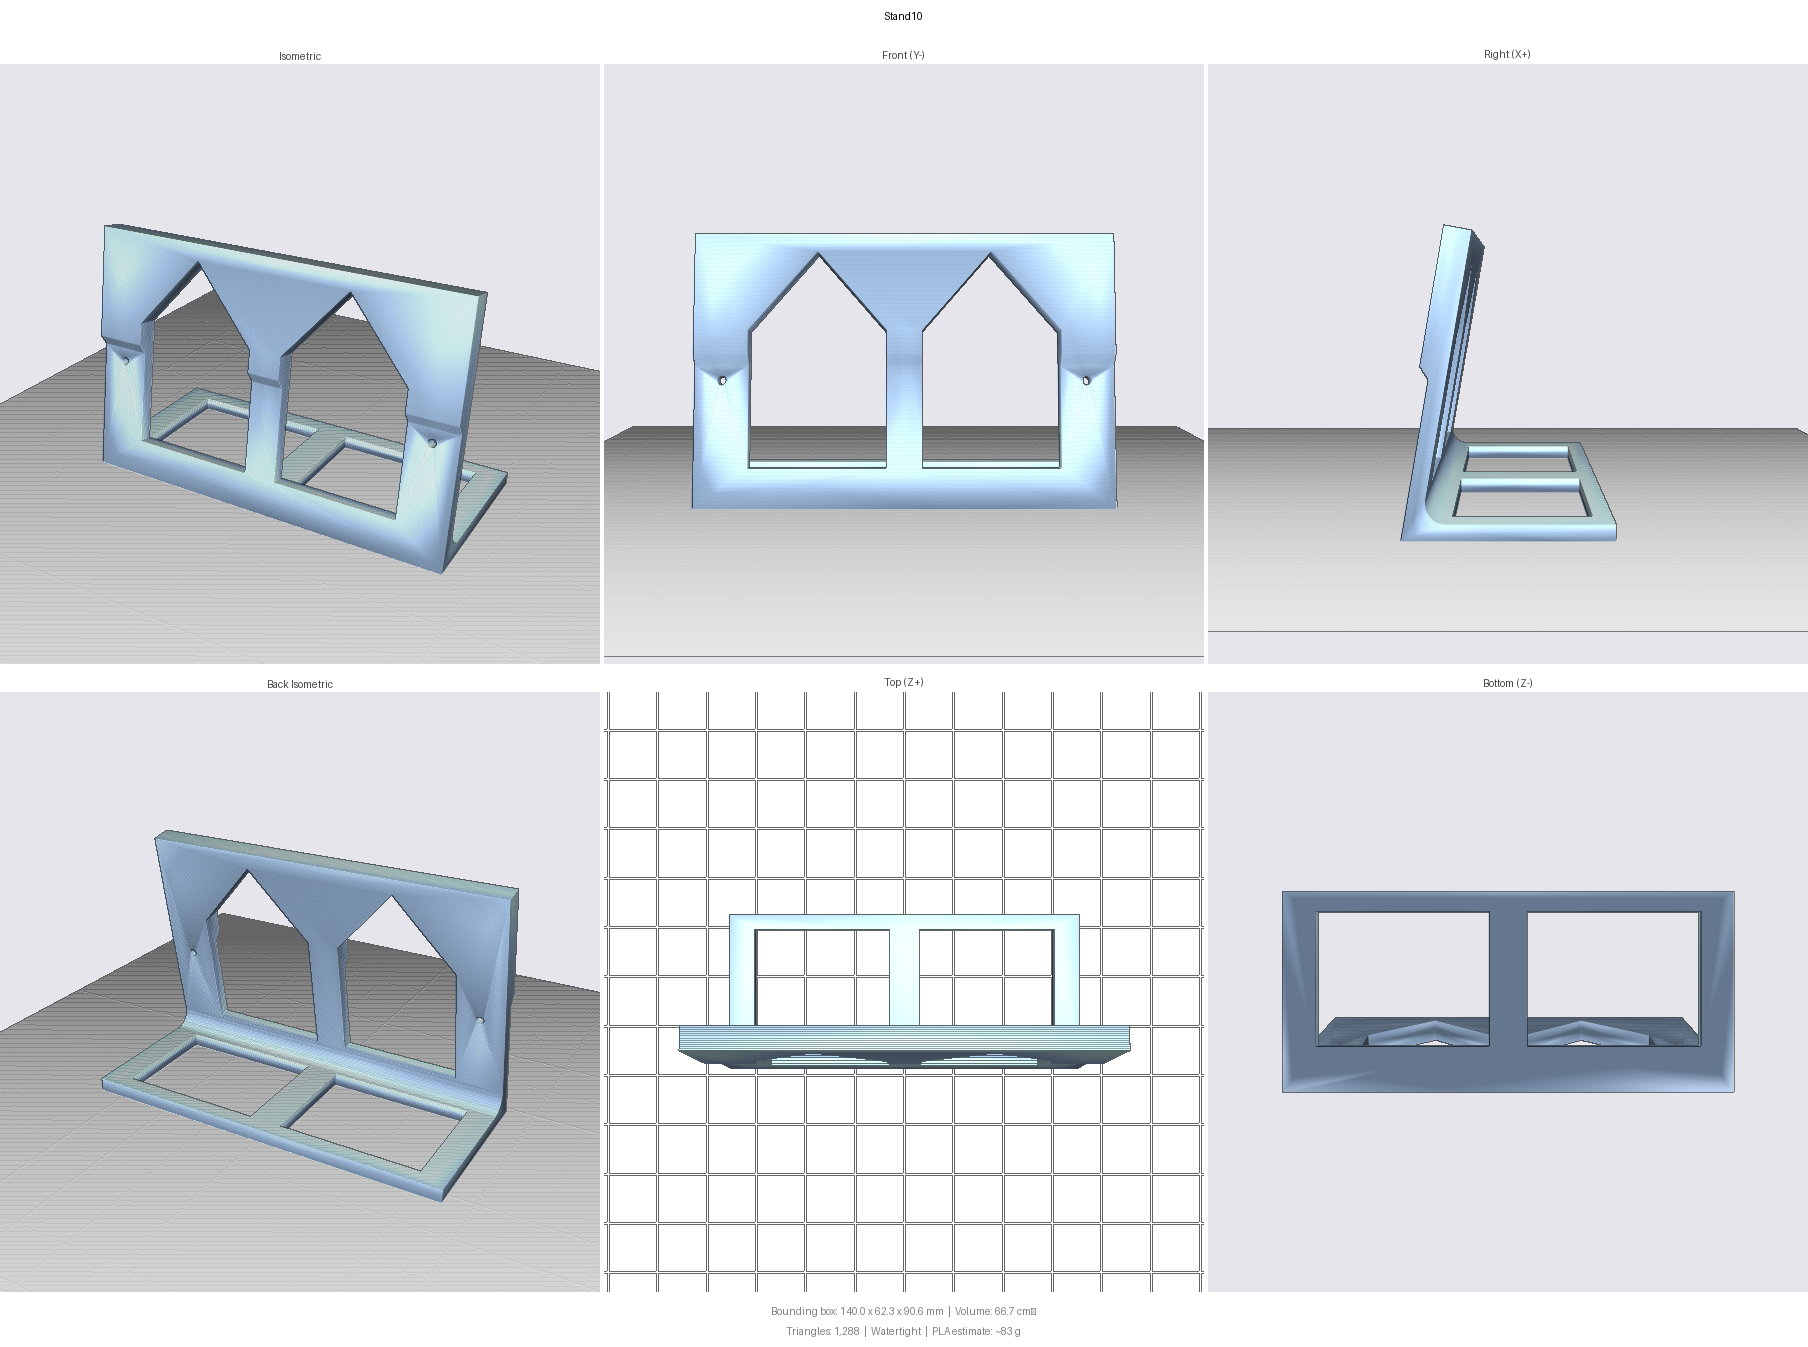
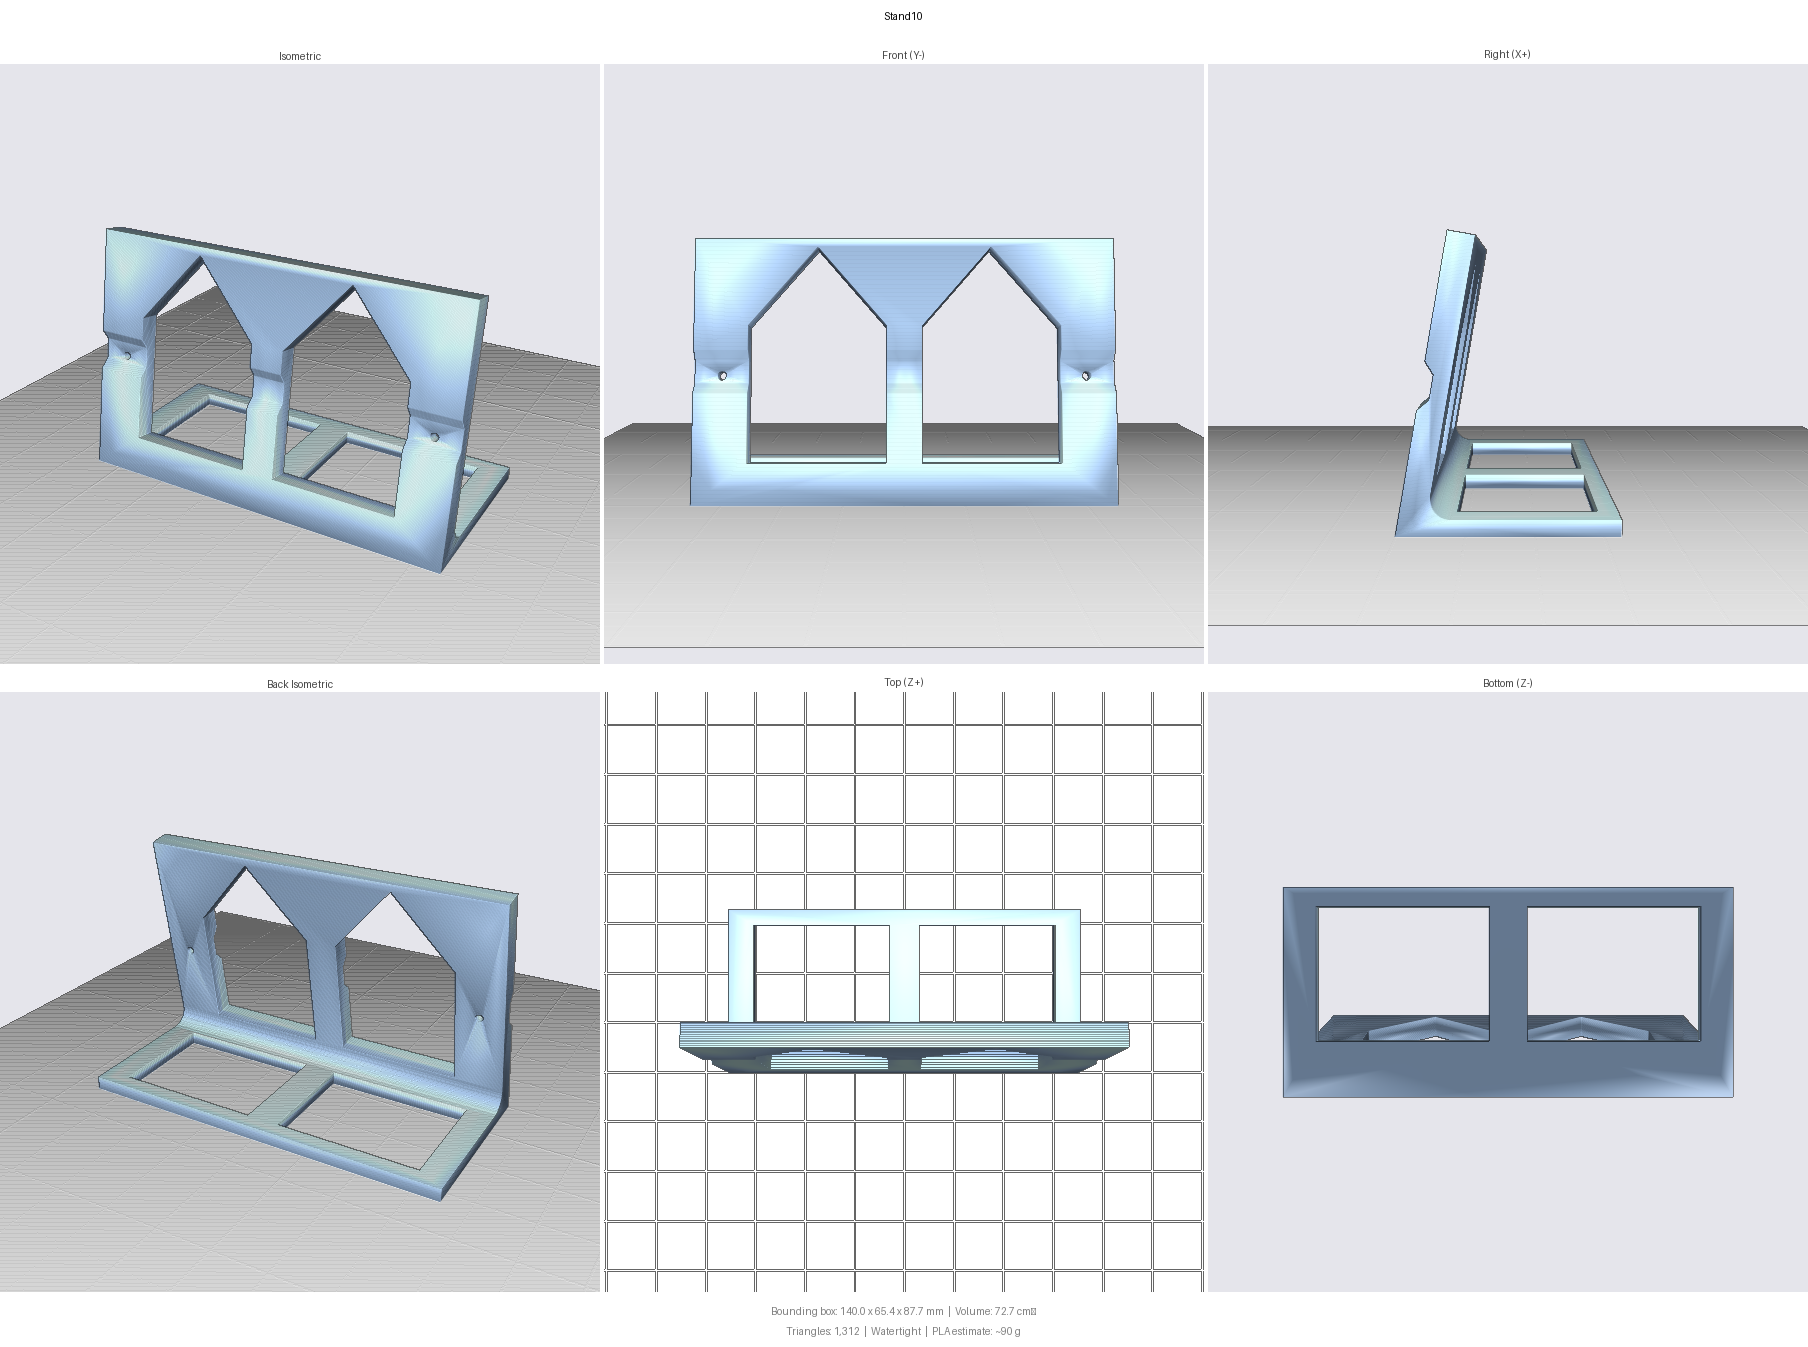
Bear on the back plate both sides of the bolt line, and clear the DSI loop
Two defects the first print showed, neither of which a render would have.

It rocked. Two screws in a line are an axis, and the front face bore only
ABOVE it, so the centre of mass held that face in contact while nothing at all
resisted rotation the other way. The face now touches the plate on both sides,
with the pad band recessed between them onto the boss plane, which makes a
couple that resists both senses. Both faces lie on the same plane, so they
cannot compete for the seat.

The one-sided version was a bad trade rather than an oversight: the worry was
that a face low down might print proud, become a pivot and lift the upper one
off. That risk is real and small. It was traded against a defect that turned
out to be certain, which is the wrong way round.

And the top pressed on the DSI ribbon where it loops under the board and hangs
below it. The upright stops at 87 rather than 90. That ceiling is not the
board's own edge at 100 and could not have been derived from it, because
nothing about a footprint says where a flexible cable sits.

The verification moved with the geometry rather than being relaxed to fit it:
the check that asserted the face was relieved below the bolt line now asserts
it bears there, and a separate one asserts the pad band between the two faces
does not touch. The step measurement is taken inside the pad band itself,
since a t=0 vertex either side of it would otherwise report no step at all.

72.7 cm3, up 9%. Needs a reprint.

diff --git a/stand10/stand10.py b/stand10/stand10.py
@@ -24,17 +24,22 @@ panel's bottom edge nor any printed lip appears below the bezel.
 
 THE FRONT FACE IS STEPPED, AND THE STEP IS THE WHOLE TRICK. The bosses stand
 3 mm proud of the back plate, so a part bolted flat against them is held 3 mm
-off the plate everywhere. A bearing face has to reach back across that 3 mm to
-touch the plate itself, and it has to do so ABOVE the bolt line: the centre of
-mass is above the bosses, so the panel's top rotates backward and the plate
-ABOVE the bolts presses into the stand while everything below it lifts away.
-The intuitive place for a pad - low down, near the desk - would never touch.
+off the plate everywhere, touching nothing but two small annular faces. The
+front face therefore reaches back across that 3 mm to touch the plate itself -
+and it does so on BOTH SIDES of the bolt line, so the pad band is a recess
+between two bearing faces with the bosses sitting in it.
 
-Below the bolt line the front face stays on the boss plane and is therefore
-held clear of the back plate. That is deliberate rather than lazy: it leaves
-the seat determined by the two pads and the upper bearing face alone, so a
-print tolerance low down cannot become a pivot and lift the bearing face out
-of contact.
+Both sides, because two screws in a line are an axis and the assembly will
+pivot on it. Bearing only above the bolts, which is what v0.3.x did, leaves
+the centre of mass holding that face in contact and nothing at all resisting
+rotation the other way; on the desk it rocked. Faces above and below make a
+couple that resists both senses, and because both lie on the same plane they
+cannot compete for the seat.
+
+The version that bore only above it was not an oversight but a bad trade: the
+worry was that a face low down might print proud, become a pivot, and lift the
+upper one off. That risk is real and small. It was traded against a defect
+that turned out to be certain.
 
 NOTHING HERE IS SIZED BY STRESS. The bearing face carries about 2.1 N, each
 bolt about 2.1 N of tension and 2.7 N of shear, and the upright's root sees
@@ -63,7 +68,7 @@ from pathlib import Path
 
 import cadquery as cq
 
-VERSION = "0.3.1"
+VERSION = "0.4.0"
 
 # ============================================================
 # PARAMETERS - all mm / degrees.
@@ -85,7 +90,7 @@ BOSS_DX = 121.8        # bottom bosses, centre to centre across
 # up, the pair 46 mm from the bottom leaves only 14 mm of clear plate before the
 # Pi begins, and no stand can reach a bearing face past that. Turned over, the
 # same board spans 100 to 187, the stand bolts to the pair now 41 mm up, and
-# there is 59 mm of clear plate - the part reaches 90 and clears the Pi by 10.
+# there is 59 mm of clear plate to work in.
 #
 # The orientation also puts the Pi's port end 60 mm from the TOP edge, which is
 # where both cables want to leave from and the reason this panel needs no
@@ -114,10 +119,18 @@ up_t = 5.0             # upright thickness, and so the pad the screw threads thr
 foot_t = 5.0           # foot thickness
 root_fillet = 6.0      # where the upright's back face meets the foot
 
-# --- Where the front face does what, in s
-pad_s1 = 46.0          # boss plane runs up to here: the boss needs flat around it
-bear_s0 = 49.5         # bearing face starts here, above the bolt line
-bear_s1 = 90.0         # and stops below the Pi, whose port face is at 100
+# --- Where the front face does what, in s. Reading up the plate: it touches,
+# --- steps back onto the boss plane, then touches again - so the pad band is a
+# --- recess between two bearing faces and the bosses sit in it.
+lo_bear_s1 = 35.0      # lower bearing face runs from the bottom up to here
+pad_s0 = 38.5          # boss plane starts, after a ramp back off the plate
+pad_s1 = 46.0          # and runs up to here: the boss needs flat around it
+bear_s0 = 49.5         # upper bearing face starts, above the bolt line
+# ...and stops here. Not set by the Pi, whose port face is at 100, but by the
+# DSI ribbon, which loops UNDER the board and hangs below it. At 90 the top of
+# the stand pressed on the loop; 87 clears it. Measured by fitting, because
+# nothing about the board's own footprint predicts where a flexible cable sits.
+bear_s1 = 87.0
 
 # --- Fasteners
 hole_d = 2.9           # M2.5 clearance, print-tolerant
@@ -173,12 +186,27 @@ def panel_prism(sketch):
 
 
 def profile():
-    """The L in the desk's YZ plane, walked front-bottom to back-bottom."""
+    """The L in the desk's YZ plane, walked front-bottom to back-bottom.
+
+    The front face touches the plate BOTH SIDES of the bolt line. Bearing only
+    above it - which is what v0.3.x did - leaves the assembly free to pivot on
+    the screw axis, and it rocked on the desk. The centre of mass holds the
+    upper face in contact, but nothing at all resisted rotation the other way.
+    Two faces straddling the bolts make a couple that resists both, and since
+    both sit on the same plane they cannot fight each other for the seat.
+
+    The reasoning that produced the one-sided version was that a face low down
+    might print proud and become a pivot, lifting the upper one off. That risk
+    is real but small, and it was traded against a defect that turned out to be
+    certain.
+    """
     return [
-        panel_to_desk(s_at_z(BOSS_PROUD, 0.0), BOSS_PROUD),   # front, on the desk
+        panel_to_desk(s_at_z(0.0, 0.0), 0.0),                 # front, on the desk
+        panel_to_desk(lo_bear_s1, 0.0),                       # top of the lower face
+        panel_to_desk(pad_s0, BOSS_PROUD),                    # back onto the boss plane
         panel_to_desk(pad_s1, BOSS_PROUD),                    # top of the boss plane
-        panel_to_desk(bear_s0, 0.0),                          # foot of the bearing face
-        panel_to_desk(bear_s1, 0.0),                          # top of the bearing face
+        panel_to_desk(bear_s0, 0.0),                          # foot of the upper face
+        panel_to_desk(bear_s1, 0.0),                          # top of the upper face
         panel_to_desk(bear_s1, _BACK_T),                      # over the top
         panel_to_desk(s_at_z(_BACK_T, foot_t), _BACK_T),      # down onto the foot
         (foot_depth, foot_t),

diff --git a/stand10/check_stand10.py b/stand10/check_stand10.py
@@ -6,9 +6,10 @@ that would otherwise only fail on the panel:
   - the screw axes are CLEAR. A fastener needs the ABSENCE of material, and
     asking whether the pad is present at the screw position answers a
     different question - one that returns True when the hole is missing.
-  - the step is real and lands the right way round: relieved on the boss plane
-    below the bolt line, touching the plate above it. Getting this backwards
-    would look identical in a render.
+  - the step is real and lands the right way round: the front face touches the
+    plate BOTH sides of the bolt line, with the pad band recessed between them
+    onto the boss plane. Getting this backwards looks identical in a render,
+    and bearing on only one side is what made v0.3.x rock on the desk.
   - nothing reaches into the panel, and nothing reaches up into the Pi.
 """
 
@@ -92,27 +93,42 @@ check("material beside each hole", inside_flank.all(),
 # --- The step. Below the bolt line the front face sits on the boss plane, so
 # --- a point just off the plate must be OUTSIDE the part; above it the bearing
 # --- face touches the plate, so the same point must be INSIDE.
-grid_x = np.linspace(-S.col_in + 2, S.col_in - 2, 9)
+bear_xs = [-S.BOSS_DX / 2.0, 0.0, S.BOSS_DX / 2.0]
 
+# The front face touches BOTH SIDES of the bolt line - that is what stops the
+# assembly pivoting on the screw axis, which is a defect the panel showed and
+# no render would have. Sampled on the columns and the centre rib, where the
+# windows leave material.
+lo_probe = to_desk(*np.array(
+    [(x, s, 0.5) for x in bear_xs for s in (6.0, 20.0, S.lo_bear_s1 - 2)]).T)
+lo_solid = mesh.contains(lo_probe)
+check("bearing face below the bolt line", lo_solid.all(),
+      f"n={len(lo_probe)}, {int((~lo_solid).sum())} missing")
+
+# ...and the pad band between them is held off the plate, so the bosses have
+# somewhere to sit. This is the one place the face must NOT touch.
 pad_probe = to_desk(*np.array(
-    [(x, s, 0.5) for x in grid_x for s in (20.0, 30.0, 41.0)]).T)
+    [(x, s, 0.5) for x in np.linspace(-S.col_in + 2, S.col_in - 2, 9)
+     for s in (S.pad_s0 + 1, S.BOSS_S, S.pad_s1 - 1)]).T)
 pad_clear = ~mesh.contains(pad_probe)
-check("relieved below the bolt line", pad_clear.all(),
+check("pad band held off the plate", pad_clear.all(),
       f"n={len(pad_probe)}, {int((~pad_clear).sum())} touching")
 
 # Sampled on the columns and the centre rib, where the bearing face survives
 # the windows - the windows deliberately remove it in between.
-bear_xs = [-S.BOSS_DX / 2.0, 0.0, S.BOSS_DX / 2.0]
 bear_probe = to_desk(*np.array(
     [(x, s, 0.5) for x in bear_xs for s in (S.bear_s0 + 2, 75.0, S.bear_s1 - 2)]).T)
 bear_solid = mesh.contains(bear_probe)
-check("bearing face on the plate", bear_solid.all(),
+check("bearing face above the bolt line", bear_solid.all(),
       f"n={len(bear_probe)}, {int((~bear_solid).sum())} missing")
 
 # --- The two faces really are 3 mm apart, measured off the mesh rather than
 # --- assumed from the parameters that drew it.
 pv = to_panel(mesh.vertices)
-front_pad = pv[(pv[:, 1] < S.pad_s1 - 1) & (pv[:, 1] > 5)][:, 2].min()
+# Taken inside the pad band itself, not merely below the bolt line: the face is
+# now on the plate either side of it, so a window that reached from the bottom
+# would put a t=0 vertex in the sample and report no step at all.
+front_pad = pv[(pv[:, 1] > S.pad_s0 + 1) & (pv[:, 1] < S.pad_s1 - 1)][:, 2].min()
 front_bear = pv[(pv[:, 1] > S.bear_s0 + 1)][:, 2].min()
 step = front_pad - front_bear
 check("step is 3.0 mm", abs(step - S.BOSS_PROUD) < 0.05,
@@ -121,7 +137,7 @@ check("step is 3.0 mm", abs(step - S.BOSS_PROUD) < 0.05,
 # --- Nothing may intrude into the panel, and nothing may reach the Pi.
 check("nothing in front of the plate", pv[:, 2].min() > -TOL,
       f"min t {pv[:, 2].min():.3f}")
-check("clears the Pi at s=95.5", pv[:, 1].max() < S.PI_S0 - TOL,
+check(f"clears the Pi at s={S.PI_S0:.0f}", pv[:, 1].max() < S.PI_S0 - TOL,
       f"max s {pv[:, 1].max():.2f}, Pi at {S.PI_S0}")
 
 # --- Tipping. The panel's centre of mass projects behind the front contact and

diff --git a/stand10/README.md b/stand10/README.md
@@ -56,7 +56,7 @@ hands the image to PIL and a transpose is one more pass in C.
 
 | | |
 |---|---|
-| Filament | PETG, **39.9 g** — about 2 h 5 min (PrusaSlicer, settings below) |
+| Filament | PETG, about **44 g**, roughly 2¼ h. (39.9 g and 2 h 5 min were measured in PrusaSlicer for v0.3.0, which was 8% smaller.) |
 | Screws | **2 × M2.5 × 12 mm**, pan or socket head |
 | Panel | Raspberry Pi Touch Display 2, 10.1", with the Pi already mounted |
 
@@ -109,18 +109,23 @@ entire purpose is being looked at.
 
 The panel's bosses stand **3 mm proud** of the back plate. A part bolted flat
 against them is therefore held 3 mm off the plate everywhere, touching nothing
-but two small annular faces — which would let the panel rock.
+but two small annular faces — which lets the panel rock.
 
-So the stand reaches back across that 3 mm with a **bearing face**, and it does
-so **above the bolt line**. The centre of mass sits above the bosses, so the
-panel's top rotates backward: the plate *above* the screws presses into the
-stand while everything *below* them lifts away. A pad placed low down, near the
-desk, is the intuitive spot and would never touch anything.
+So the stand reaches back across that 3 mm to touch the plate itself, and it
+does so on **both sides of the bolt line**. The pad band is a recess between
+two bearing faces, with the bosses sitting in it.
 
-Below the bolt line the front face deliberately stays back on the boss plane,
-clear of the plate. That leaves the seat determined by the two pads and the
-upper bearing face alone, so a print tolerance low down cannot become a pivot
-and lever the bearing face out of contact.
+Both sides, because two screws in a line are an axis and the assembly will
+pivot on it. The centre of mass is above the bosses, so it holds an upper face
+in contact by itself — but nothing resists rotation the other way, and v0.3.0
+rocked on the desk for exactly that reason. Faces above and below make a couple
+that resists both senses, and since both lie on the same plane they cannot
+compete for the seat.
+
+*The one-sided version was a bad trade rather than an oversight: the worry was
+that a face low down might print proud, become a pivot and lift the upper one
+off. That risk is real and small, and it was traded against a defect that
+turned out to be certain.*
 
 ### One part, not two legs
 
@@ -182,7 +187,9 @@ measure from, and the Pi's clearance reads 59 mm one way and 14 mm the other.
 | Pi, port face to SD end | **100 – 187 mm** up the back plate |
 | Mass, panel + Pi | 558 g |
 
-The stand stops at 90 mm up the plate, clearing the Pi by 10 mm.
+The stand stops at **87 mm** up the plate. That ceiling is set by the DSI
+ribbon, which loops *under* the board and hangs below it — not by the board's
+own edge at 100 mm. At 90 mm the top of the stand pressed on the loop.
 
 ## Files
 
@@ -206,16 +213,23 @@ step is 3.000 mm and lands the right way round, relieved below the bolt line
 and touching above it; that nothing reaches into the panel or up into the Pi;
 and that no surface outside the screw bores faces downward at under 45°.
 
-## Not yet validated on hardware
+## What the first print changed
 
-This has not been printed. Two things to look at on the first fit:
+v0.3.0 was printed and fitted, and two things came back that no render would
+have shown:
 
-- **Whether the bearing face actually touches.** It should be the second thing
-  to make contact, after the two pads. If the part rocks about the screws, the
-  bearing face is not reaching the plate.
-- **Whether hanging 2 mm clear feels secure enough.** If it does not, the
-  fallback is `clear_z = 0` with a shallow toe, which is a parameter change
-  rather than a redesign.
+- **It rocked**, pivoting on the screw axis, because the front face bore only
+  above the bolt line. v0.4.0 bears both sides — see above.
+- **The top pressed on the DSI ribbon** where it loops under the board. The
+  upright is 3 mm shorter for it.
+
+It also fitted perfectly at the wrong end of the display, which is what
+established that the panel mounts upside down. **v0.4.0 has not itself been
+printed.**
+
+Still open, and only the hardware can answer it: whether hanging 2 mm clear of
+the desk feels secure. If not, `clear_z = 0` plus a shallow toe is a parameter
+change rather than a redesign.
 
 ## Parameters worth changing
 
